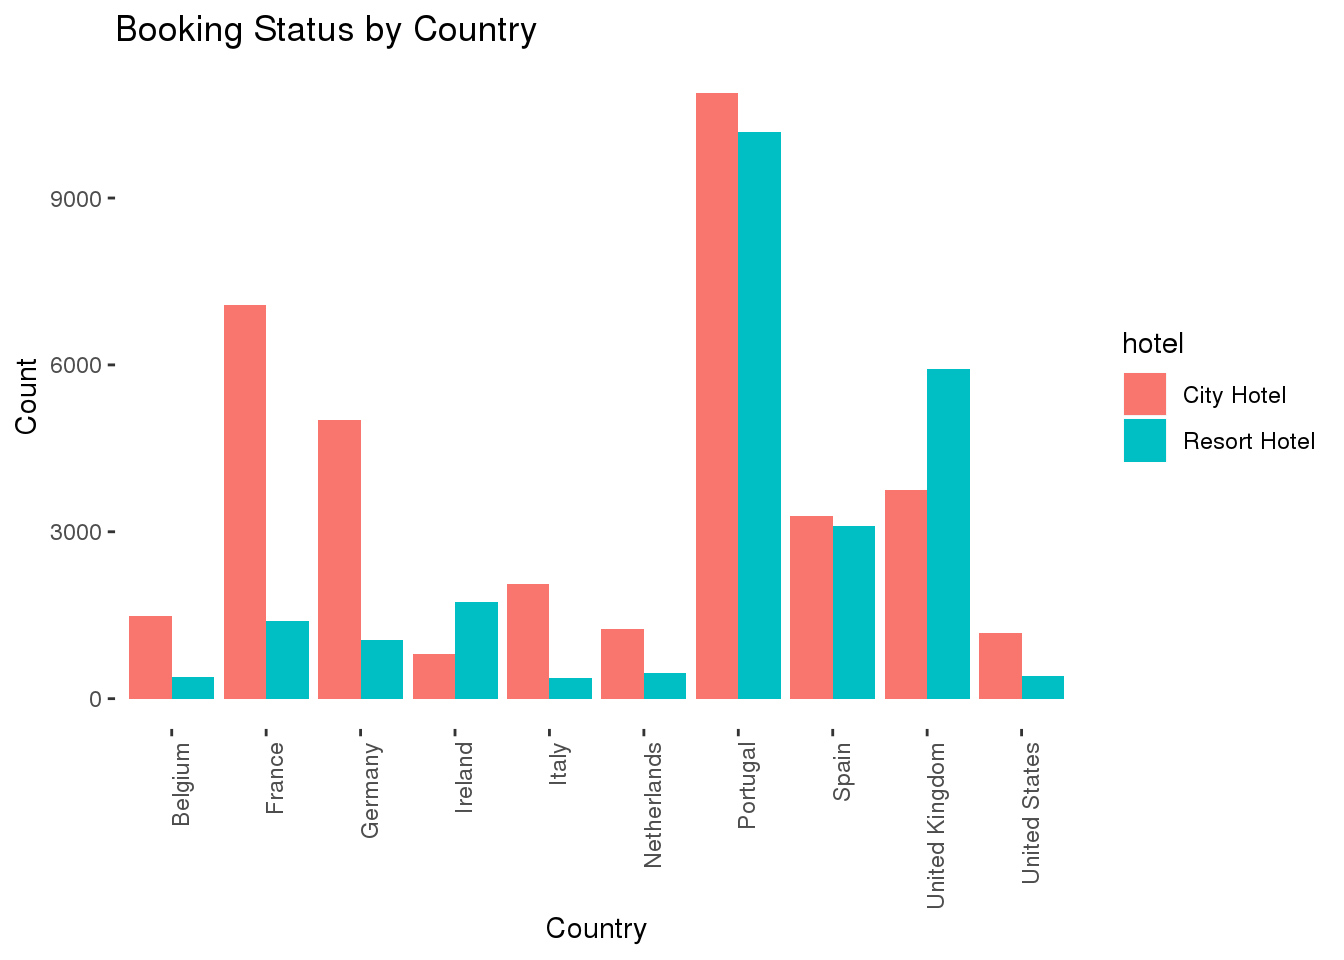
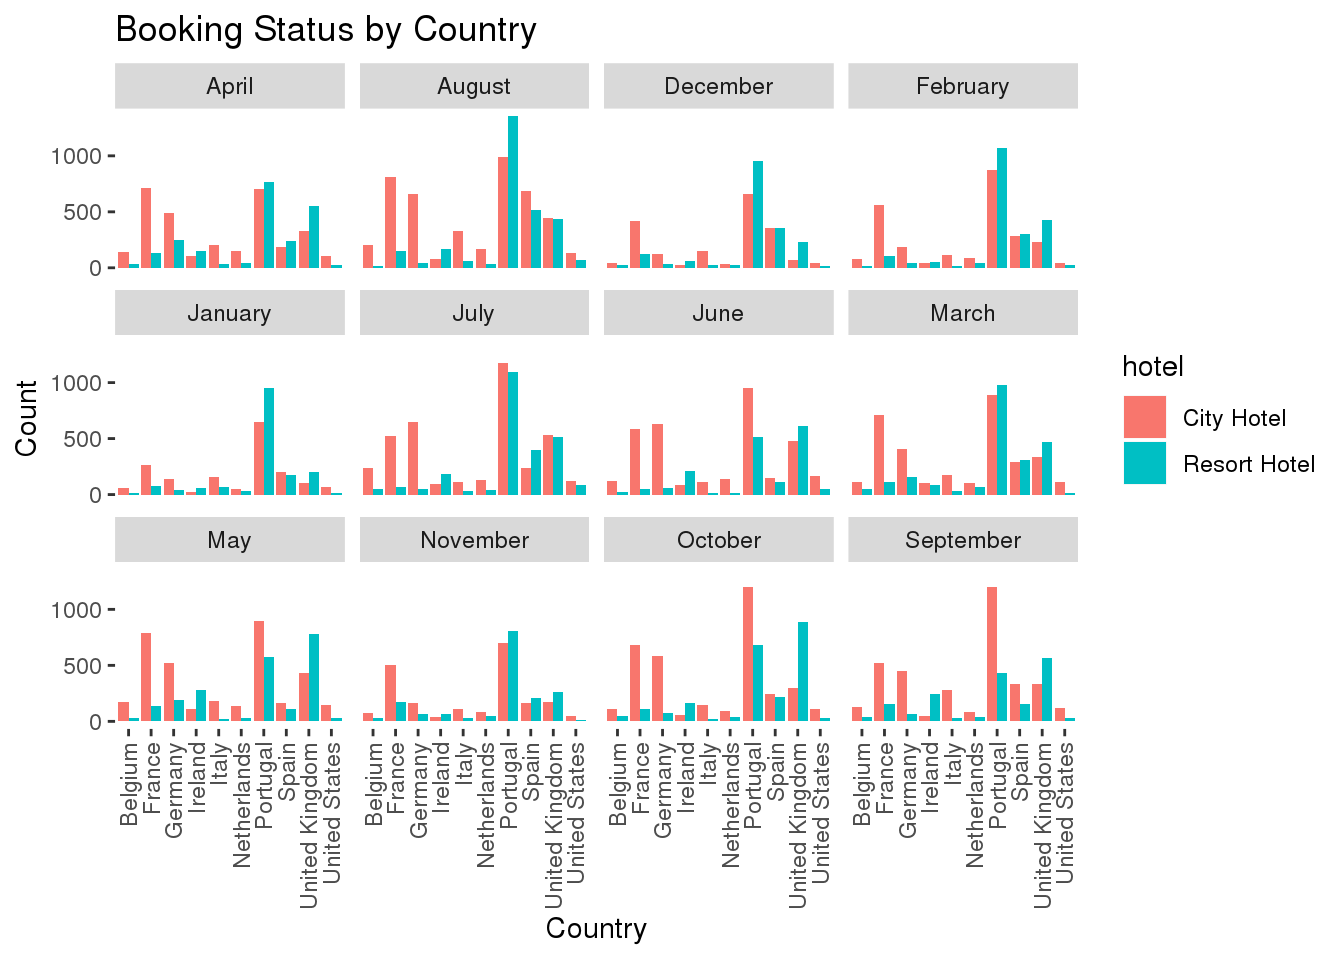
Blog Commit

Changed region(s): [[0.0312, 0.0625, 0.8125, 0.9375], [0.8125, 0.3438, 0.9688, 0.5312], [0.0, 0.375, 0.0938, 0.4688]]

diff --git a/public/2020/12/10/hotel-booking-data/index.html b/public/2020/12/10/hotel-booking-data/index.html
@@ -38,7 +38,7 @@
       <header class="header">
         <nav class="nav">
   <a href="/" class="nav-logo">
-    <img src="/images/CalebWilliams-Pic.jpg"
+    <img src="/images/logo.png"
          width="50"
          height="50"
          alt="Logo">
@@ -46,7 +46,7 @@
 
   <ul class="nav-links">
     
-    <li><a href="about.md">About</a></li>
+    <li><a href="/about.md">About</a></li>
     
     <li><a href="https://github.com/Calebwilliams67/statistical-methods">GitHub</a></li>
     
@@ -85,8 +85,8 @@
 <div id="question-1" class="section level2">
 <h2><strong>Question 1:</strong></h2>
 </div>
-<div id="how-does-the-proportion-of-hotel-residents-differ-from-customer-type-between-city-hotels-and-resort-hotels" class="section level1">
-<h1><em>How does the proportion of hotel residents differ from customer type between City Hotels and Resort Hotels?</em></h1>
+<div id="how-does-the-proportion-of-hotel-residents-differ-from-customer-type-at-two-different-types-of-hotels" class="section level1">
+<h1><em>How does the proportion of hotel residents differ from customer type at two different types of hotels?</em></h1>
 <p>The customer type variable has 4 different values: Contract, Group, Transient, Transient-Party. I created a bar graph that displays the proportion monthly for each of the four customer types at both types of hotels</p>
 <pre class="r"><code>hotel_stays &lt;- hotels %&gt;%
   filter(is_canceled == 0)</code></pre>
@@ -137,15 +137,14 @@ hotels_1 &lt;- hotels[hotels$reservation_status == &quot;Check-Out&quot;,]
 sub_hotel &lt;- hotels_1 %&gt;% 
   group_by(country) %&gt;% 
   filter(n() &gt; 1500)
-sub_hotel$county_name &lt;- countrycode(sub_hotel$country, origin = &quot;iso3c&quot;, 
-                                     destination = &quot;country.name&quot;)
+sub_hotel$county_name &lt;- countrycode(sub_hotel$country, origin = &quot;iso3c&quot;, destination = &quot;country.name&quot;)
 ggplot(sub_hotel, aes(county_name, fill = hotel)) + 
   geom_bar(stat = &quot;count&quot;, position = position_dodge()) + 
   labs(title = &quot;Booking Status by Country&quot;,
        x = &quot;Country&quot;,
        y = &quot;Count&quot;) +
-  theme(axis.text.x = element_text(angle = 90, hjust = 1),
-        panel.background = element_blank())</code></pre>
+  theme(axis.text.x = element_text(angle = 90, hjust = 1, vjust = .5),
+        panel.background = element_blank()) + facet_wrap(~arrival_date_month)</code></pre>
 <p><img src="index_files/figure-html/unnamed-chunk-5-1.png" width="672" /></p>
 </div>
 

diff --git a/content/post/2020-12-10-hotel-booking-data/index.html b/content/post/2020-12-10-hotel-booking-data/index.html
@@ -17,8 +17,8 @@ tags: []
 <div id="question-1" class="section level2">
 <h2><strong>Question 1:</strong></h2>
 </div>
-<div id="how-does-the-proportion-of-hotel-residents-differ-from-customer-type-between-city-hotels-and-resort-hotels" class="section level1">
-<h1><em>How does the proportion of hotel residents differ from customer type between City Hotels and Resort Hotels?</em></h1>
+<div id="how-does-the-proportion-of-hotel-residents-differ-from-customer-type-at-two-different-types-of-hotels" class="section level1">
+<h1><em>How does the proportion of hotel residents differ from customer type at two different types of hotels?</em></h1>
 <p>The customer type variable has 4 different values: Contract, Group, Transient, Transient-Party. I created a bar graph that displays the proportion monthly for each of the four customer types at both types of hotels</p>
 <pre class="r"><code>hotel_stays &lt;- hotels %&gt;%
   filter(is_canceled == 0)</code></pre>
@@ -69,14 +69,13 @@ hotels_1 &lt;- hotels[hotels$reservation_status == &quot;Check-Out&quot;,]
 sub_hotel &lt;- hotels_1 %&gt;% 
   group_by(country) %&gt;% 
   filter(n() &gt; 1500)
-sub_hotel$county_name &lt;- countrycode(sub_hotel$country, origin = &quot;iso3c&quot;, 
-                                     destination = &quot;country.name&quot;)
+sub_hotel$county_name &lt;- countrycode(sub_hotel$country, origin = &quot;iso3c&quot;, destination = &quot;country.name&quot;)
 ggplot(sub_hotel, aes(county_name, fill = hotel)) + 
   geom_bar(stat = &quot;count&quot;, position = position_dodge()) + 
   labs(title = &quot;Booking Status by Country&quot;,
        x = &quot;Country&quot;,
        y = &quot;Count&quot;) +
-  theme(axis.text.x = element_text(angle = 90, hjust = 1),
-        panel.background = element_blank())</code></pre>
+  theme(axis.text.x = element_text(angle = 90, hjust = 1, vjust = .5),
+        panel.background = element_blank()) + facet_wrap(~arrival_date_month)</code></pre>
 <p><img src="index_files/figure-html/unnamed-chunk-5-1.png" width="672" /></p>
 </div>

diff --git a/public/2020/12/10/nfl-attendance/index.html b/public/2020/12/10/nfl-attendance/index.html
@@ -38,7 +38,7 @@
       <header class="header">
         <nav class="nav">
   <a href="/" class="nav-logo">
-    <img src="/images/CalebWilliams-Pic.jpg"
+    <img src="/images/logo.png"
          width="50"
          height="50"
          alt="Logo">
@@ -46,7 +46,7 @@
 
   <ul class="nav-links">
     
-    <li><a href="about.md">About</a></li>
+    <li><a href="/about.md">About</a></li>
     
     <li><a href="https://github.com/Calebwilliams67/statistical-methods">GitHub</a></li>
     

diff --git a/public/about/index.html b/public/about/index.html
@@ -33,7 +33,7 @@
       <header class="header">
         <nav class="nav">
   <a href="/" class="nav-logo">
-    <img src="/images/CalebWilliams-Pic.jpg"
+    <img src="/images/logo.png"
          width="50"
          height="50"
          alt="Logo">
@@ -41,7 +41,7 @@
 
   <ul class="nav-links">
     
-    <li><a href="about.md">About</a></li>
+    <li><a href="/about.md">About</a></li>
     
     <li><a href="https://github.com/Calebwilliams67/statistical-methods">GitHub</a></li>
     

diff --git a/public/categories/index.html b/public/categories/index.html
@@ -35,7 +35,7 @@
       <header class="header">
         <nav class="nav">
   <a href="/" class="nav-logo">
-    <img src="/images/CalebWilliams-Pic.jpg"
+    <img src="/images/logo.png"
          width="50"
          height="50"
          alt="Logo">
@@ -43,7 +43,7 @@
 
   <ul class="nav-links">
     
-    <li><a href="about.md">About</a></li>
+    <li><a href="/about.md">About</a></li>
     
     <li><a href="https://github.com/Calebwilliams67/statistical-methods">GitHub</a></li>
     

diff --git a/public/index.html b/public/index.html
@@ -36,7 +36,7 @@
       <header class="header">
         <nav class="nav">
   <a href="/" class="nav-logo">
-    <img src="/images/CalebWilliams-Pic.jpg"
+    <img src="/images/logo.png"
          width="50"
          height="50"
          alt="Logo">
@@ -44,7 +44,7 @@
 
   <ul class="nav-links">
     
-    <li><a href="about.md">About</a></li>
+    <li><a href="/about.md">About</a></li>
     
     <li><a href="https://github.com/Calebwilliams67/statistical-methods">GitHub</a></li>
     

diff --git a/public/post/index.html b/public/post/index.html
@@ -35,7 +35,7 @@
       <header class="header">
         <nav class="nav">
   <a href="/" class="nav-logo">
-    <img src="/images/CalebWilliams-Pic.jpg"
+    <img src="/images/logo.png"
          width="50"
          height="50"
          alt="Logo">
@@ -43,7 +43,7 @@
 
   <ul class="nav-links">
     
-    <li><a href="about.md">About</a></li>
+    <li><a href="/about.md">About</a></li>
     
     <li><a href="https://github.com/Calebwilliams67/statistical-methods">GitHub</a></li>
     

diff --git a/public/tags/index.html b/public/tags/index.html
@@ -35,7 +35,7 @@
       <header class="header">
         <nav class="nav">
   <a href="/" class="nav-logo">
-    <img src="/images/CalebWilliams-Pic.jpg"
+    <img src="/images/logo.png"
          width="50"
          height="50"
          alt="Logo">
@@ -43,7 +43,7 @@
 
   <ul class="nav-links">
     
-    <li><a href="about.md">About</a></li>
+    <li><a href="/about.md">About</a></li>
     
     <li><a href="https://github.com/Calebwilliams67/statistical-methods">GitHub</a></li>
     
